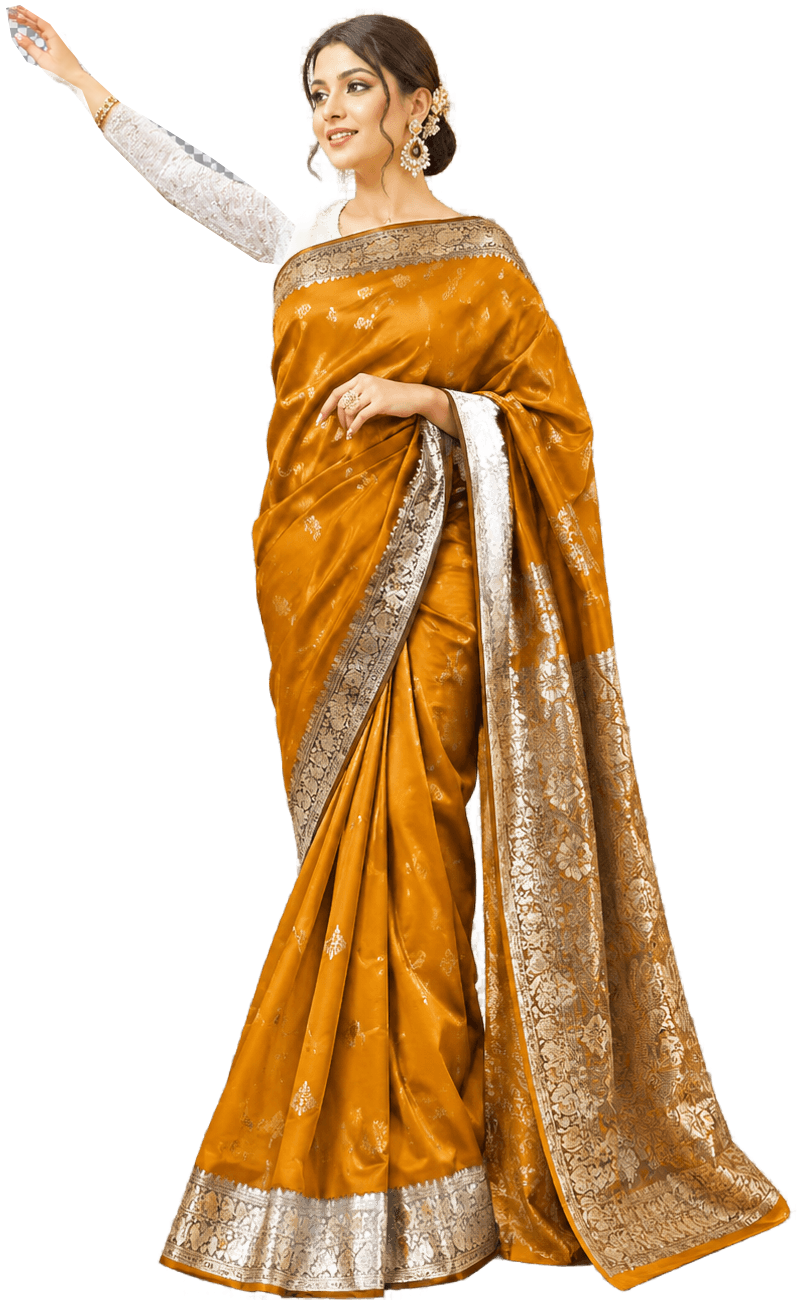
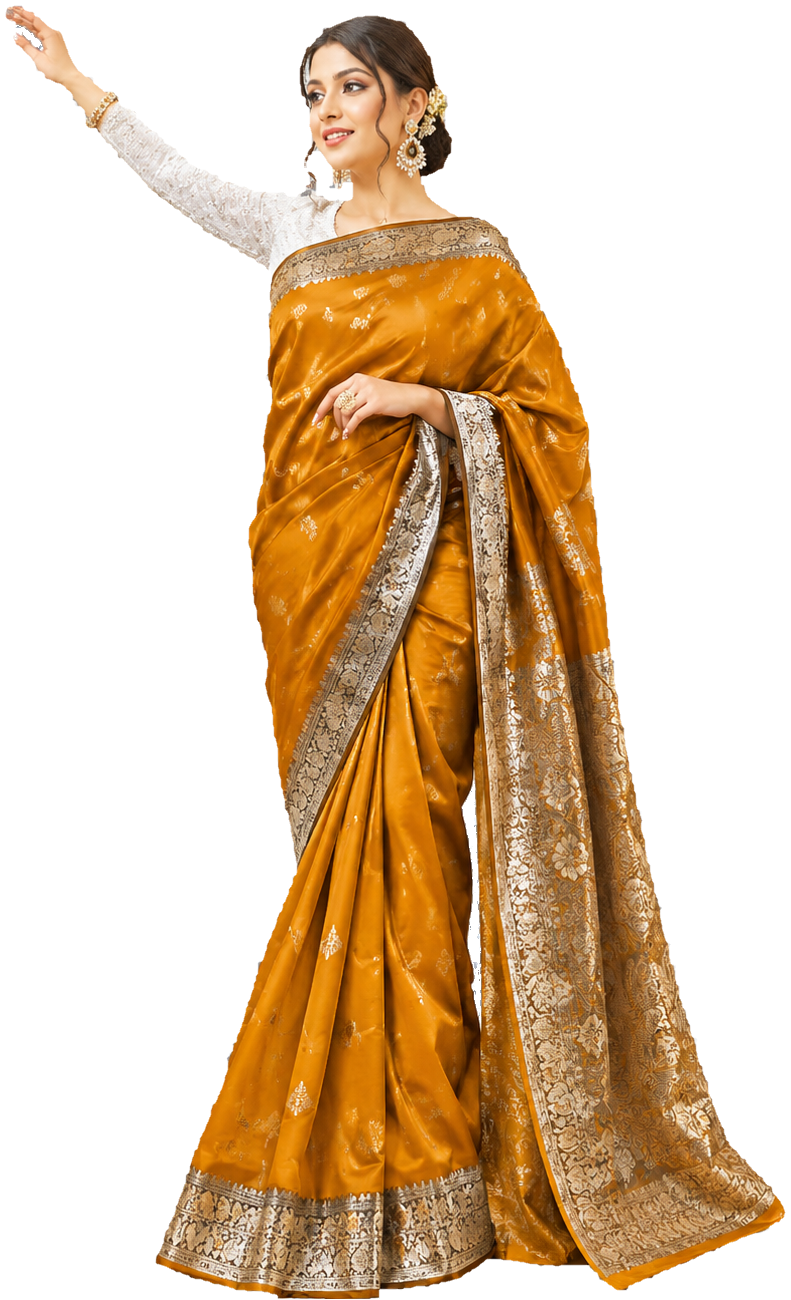
Clean mustard cut-out: remove baked checkerboard from arm, hand and saree

diff --git a/js/app.js b/js/app.js
@@ -13,7 +13,7 @@ const CATS=[["all","View All"],["best","Best Sellers"],["new","New Arrivals"],["
 const inCat=(p,c)=>c==="all"||(c==="best"?COL.best.includes(p.id):c==="new"?COL.new.includes(p.id):p.cat===c);
 
 /* ---------- media ---------- */
-function media(p){const m=MEDIA[p.id]||{};const photos=[];for(let i=0;i<(m.photos||0);i++)photos.push(`images/products/${p.id}${i?"-"+(i+1):""}.jpg?v=pp`);return{cut:m.cut?m.cut+"?v=11":null,photos}}
+function media(p){const m=MEDIA[p.id]||{};const photos=[];for(let i=0;i<(m.photos||0);i++)photos.push(`images/products/${p.id}${i?"-"+(i+1):""}.jpg?v=pp`);return{cut:m.cut?m.cut+"?v=12":null,photos}}
 const hasPic=p=>{const m=media(p);return !!(m.cut||m.photos.length)};
 const MARK='<img src="images/peacock.png" alt="" aria-hidden="true">';
 function thumbHTML(p){const m=media(p);return m.photos[0]?`<img class="cv" src="${m.photos[0]}" alt="${esc(p.name)}">`:MARK}
